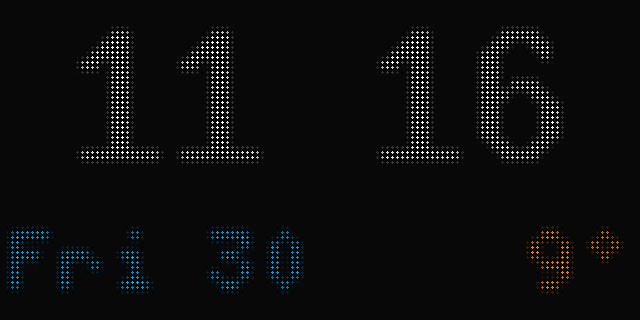
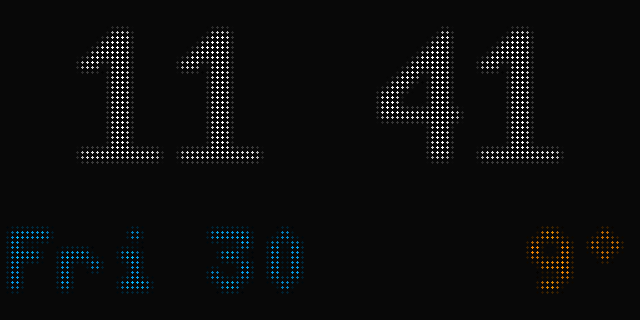
README: tracked-flight screenshot
Claude-Session: https://claude.ai/code/session_01HxwqHPo7hSEdmpsDUmvuHn

Changed region(s): [[0.5938, 0.0938, 0.7188, 0.5], [0.75, 0.0938, 0.875, 0.5]]

diff --git a/server/screenshots.py b/server/screenshots.py
@@ -45,6 +45,11 @@ FLIGHTS = {
 }
 
 
+TRACKED = {"hex": "440f3c", "callsign": "EJU82VC", "t": "A320", "r": "OE-IVD", "alt_baro": 36000, "track": 312.0,
+           "gs": 472, "lat": 46.7, "lon": 6.3, "group": "airliners", "leg": ("JMK", "ORY"),
+           "total_km": 2236, "left_km": 377, "home_km": 21}
+
+
 def main():
     OUT.mkdir(parents=True, exist_ok=True)
     cfg = load_config()
@@ -63,6 +68,9 @@ def main():
             app.adsb.aircraft, app.adsb.updated = [ac], now
             led_preview(app.screens["flights"].render(now)[0], scale=5).save(OUT / f"{name}.png")
             print(OUT / f"{name}.png")
+        app.tracker.target, app.tracker.aircraft = "EC82VC", TRACKED
+        led_preview(app.screens["tracker"].render(now)[0], scale=5).save(OUT / "tracker.png")
+        print(OUT / "tracker.png")
 
 
 if __name__ == "__main__":

diff --git a/README.md b/README.md
@@ -37,7 +37,7 @@ Rendered with the LED look by `server/screenshots.py`. The timeline uses live Me
 |---|---|
 | ![Timeline](docs/screenshots/timeline.png)<br>`timeline`: 24 h strip, red **!** where rain is likely | ![Clock](docs/screenshots/clock.png)<br>`clock` |
 | ![Flights](docs/screenshots/flights.png)<br>`flights`: route checked against the aircraft | ![Flights, unsure route](docs/screenshots/flights-unsure.png)<br>`flights`: stored route contradicts the aircraft, shown dimmed with "?" |
-| ![Flights, helicopter](docs/screenshots/flights-heli.png)<br>`flights`: helicopter, operator by callsign | |
+| ![Flights, helicopter](docs/screenshots/flights-heli.png)<br>`flights`: helicopter, operator by callsign | ![Tracked flight](docs/screenshots/tracker.png)<br>`tracker`: one chosen flight, progress, km left and ETA |
 
 ## Control page
 
